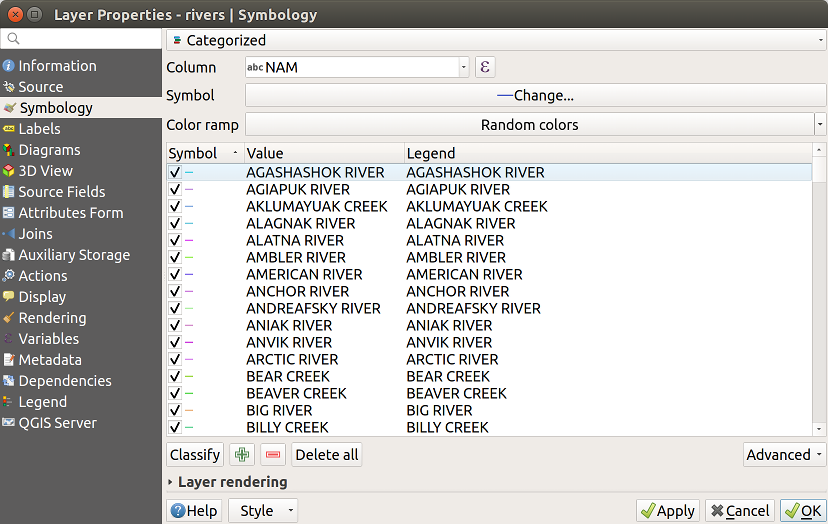
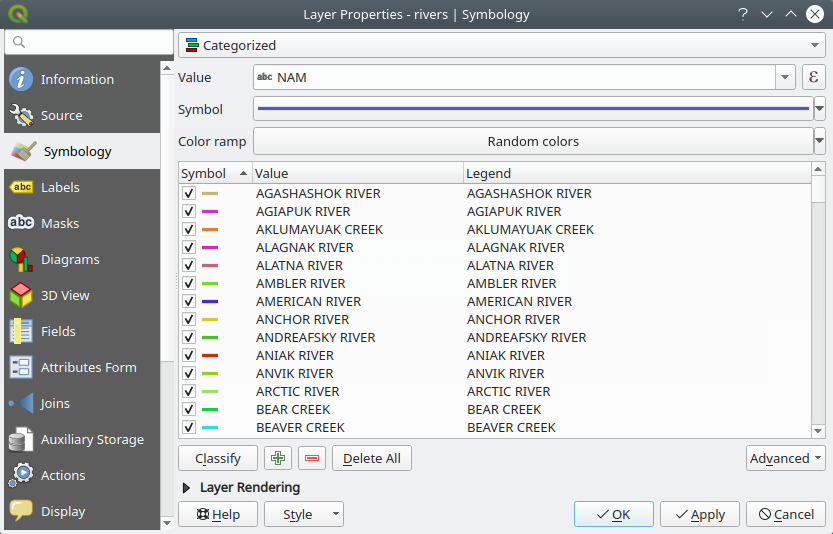
Use "value" as standard name fix #4230 (#4796)
* Use "value" as standard name fix #4230

* update screenshots

* New screenshots with 3D in it

* Changes in labels dialog

* Smaller screenshots

Changed region(s): [[0.0, 0.0, 1.0, 1.0], [0.6944, 0.916, 1.0, 1.0]]

diff --git a/source/docs/user_manual/working_with_vector/vector_properties.rst b/source/docs/user_manual/working_with_vector/vector_properties.rst
@@ -468,8 +468,8 @@ to define rotation and size scale from specified columns.
 
 Also, analogous to the Categorized Renderer, it allows you to select:
 
-* The attribute (using the Column listbox or the |expression|
-  :sup:`Set column expression` function)
+* The value (using the fields listbox or the |expression|
+  :sup:`Set value expression` function)
 * The symbol (using the Symbol selector dialog)
 * The legend format and the precision
 * The method to use to change the symbol: color or size
@@ -515,7 +515,7 @@ Right-click shows a contextual menu to **Copy/Paste**, **Change color**, **Chang
 transparency**, **Change output unit**, **Change symbol width**.
 
 The example in figure_graduated_symbology_ shows the graduated rendering dialog for
-the rivers layer of the QGIS sample dataset.
+the major_rivers layer of the QGIS sample dataset.
 
 .. _figure_graduated_symbology:
 
@@ -1044,7 +1044,7 @@ effect types, with custom options are available:
 * **Colorise**: This effect can be used to make a version of the style using one
   single hue. The base will always be a grayscale version of the symbol and you
   can:
-  
+
   * Use the |selectString| :guilabel:`Grayscale` to select how to create it:
     options are 'By lightness', 'By luminosity', 'By average' and 'Off'.
   * If |checkbox| :guilabel:`Colorise` is selected, it will be possible to mix
@@ -1190,7 +1190,7 @@ option, opening the following dialog.
 
    Layer labeling settings - Single labels
 
-At the top of the dialog, a :guilabel:`Label with` drop-down list is enabled.
+At the top of the dialog, a :guilabel:`Value` drop-down list is enabled.
 You can select an attribute column to use for labeling. By default, the
 :ref:`display field <maptips>` is used. Click |expression| if you want to define
 labels based on expressions - See :ref:`labeling_with_expressions`.
@@ -1234,7 +1234,7 @@ options:
   redraws.
 * :guilabel:`Text rendering`: sets the default value for label rendering
   widgets when :ref:`exporting a map canvas <exportingmapcanvas>` or
-  :ref:`a layout <create-output>` to PDF or SVG. 
+  :ref:`a layout <create-output>` to PDF or SVG.
   If :guilabel:`Always render labels as text` is selected then labels can be
   edited in external applications (e.g. Inkscape) as normal text. BUT the side
   effect is that the rendering quality is decreased, and there are issues with
@@ -1308,7 +1308,7 @@ Whether you choose single or rule-based labeling type, QGIS allows using
 expressions to label features.
 
 Assuming you are using the :guilabel:`Single labels` method, click the
-|expression| button near the :guilabel:`Label with` drop-down list in the
+|expression| button near the :guilabel:`Value` drop-down list in the
 |labeling| :guilabel:`Labels` tab of the properties dialog.
 
 In figure_labels_expression_, you see a sample expression to label the alaska
@@ -1474,15 +1474,15 @@ description and manipulation in :ref:`data_defined` section.
    :align: center
 
    Airports labels are formatted based on their attributes
-   
+
 .. tip:: **Use the data-defined override to label every part of multi-part features**
 
    There is an option to set the labeling for multi-part features independently from
    your label properties. Choose the  |render| :ref:`Rendering <labels_rendering>`,
    ``Feature options``, go to the |dataDefined| :sup:`Data-define override` button
-   next to the checkbox |unchecked| :guilabel:`Label every part of multipart-features` 
+   next to the checkbox |unchecked| :guilabel:`Label every part of multipart-features`
    and define the labels as described in :ref:`data_defined`.
-   
+
 
 .. _label_toolbar:
 
@@ -1528,7 +1528,7 @@ same way with diagrams:
 * |changeLabelProperties| :sup:`Change Label`. It opens a dialog to change the
   clicked label properties; it can be the label itself, its coordinates, angle,
   font, size... as long as this property has been mapped to a field. Here you can
-  set the option to |checkbox| :guilabel:`Label every part of a feature`. 
+  set the option to |checkbox| :guilabel:`Label every part of a feature`.
 
 .. warning:: **Label tools overwrite current field values**
 
@@ -1967,7 +1967,7 @@ in figure_fields_form_.
 
 #. Choose ``Drag and drop designer`` from the :guilabel:`Select attribute layout
    editor` combobox. This enables the :guilabel:`Form Layout` panel next to the
-   :guilabel:`Available widgets` panel, filled with existing fields. 
+   :guilabel:`Available widgets` panel, filled with existing fields.
 #. Select any fields you would not want to use in your :guilabel:`Form Layout`
    panel and hit the |signMinus| button to remove them. Drag and drop fields
    from the other panel to re-add them. The same field can be added multiple times.
@@ -1975,7 +1975,7 @@ in figure_fields_form_.
    their position.
 #. Add containers (tab or group frames) to associate fields that belong to
    the same category and better structure the form.
-  
+
    #. The first step is to use the |signPlus| icon to create a tab in which
       fields and groups will be displayed
    #. You can create as many containers as you want. If relevant, press
@@ -2007,7 +2007,7 @@ in figure_fields_form_.
 #. Likewise, double-click a field label and you can specify whether the label
    of its widget should be visible or not in the form.
 
-#. In case the layer is involved in ``one or many to many relations`` (see 
+#. In case the layer is involved in ``one or many to many relations`` (see
    :ref:`vector_relations`), referencing layers are listed in the
    :guilabel:`Relations` frame and their form can be embedded in the current
    layer form by drag-and-drop. As for the other items, double-click the relation
